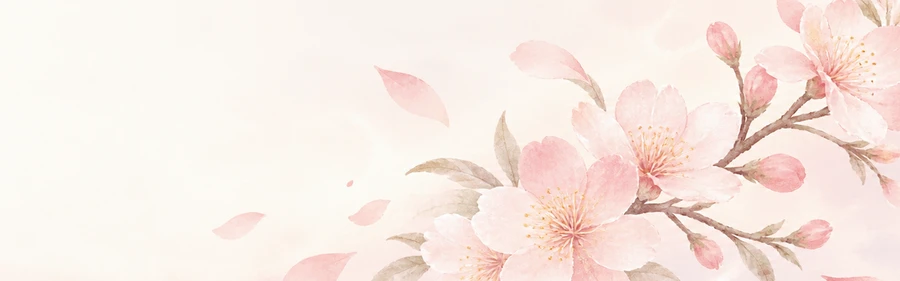
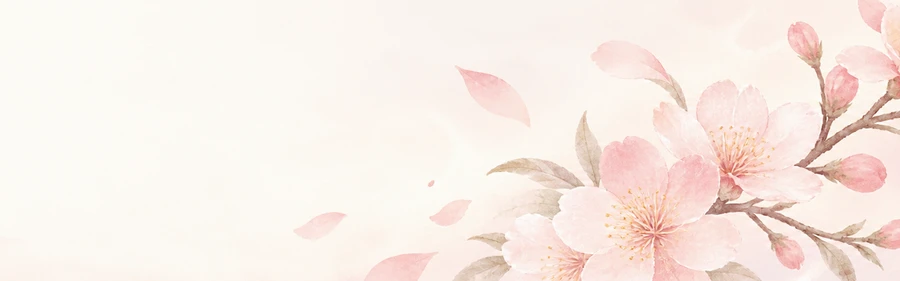
Compass mobile: unify the four cards into one cohesive system
Five changes per feedback on "same white box + different photo" feel:

1. Art recedes further and carries less visual weight: fade stays
   fully opaque through 62% (was 66%), and even the visible edge keeps
   a light residual wash so no card ever shows full-strength artwork.
   03's blossom cluster re-cropped ~100px further right so it no
   longer competes with the text; 02's sun toned down (was overshot
   too bright/saturated from the previous round).

2. The four direction icons now share one "chapter dot" language:
   fixed size, object-fit:cover forces a uniform circular crop
   (replacing each source image's own inconsistent edge/glow), with
   one shared CSS ring + halo on top. Only the inner symbol differs.

3. The 01/02/03/04 number is smaller, champagne gold, wider letter
   spacing, and now shares a vertical baseline with the icon
   (grid-row:1/3, centered) instead of sitting alone at the top-left.

4. Cards get a subtle pearl-paper surface: diagonal white-to-ivory
   gradient, inset top highlight, refined hairline border and a soft
   ambient shadow, replacing the flat rgba fill — reads as a page in a
   personal guide rather than a dashboard tile.

5. The sky quiets down starting at "从一个方向开始": a warm-ivory mist
   fades in from transparent (seamless with the compass rose above)
   to a softened, lower-contrast wash behind the four cards, then
   fades back out before the next section — so the cards read as the
[…]

diff --git a/app.html b/app.html
@@ -3898,54 +3898,81 @@
     #dpage.compass-page .cp-compass .cp-lead{display:block}
     #dpage.compass-page .cp-lead{font-size:14.5px}
     #dpage.compass-page .cp-startfrom{
-      display:flex;order:8;flex-direction:column;align-items:center;gap:6px;
+      position:relative;display:flex;order:8;flex-direction:column;align-items:center;gap:6px;
       text-align:center;margin:22px 0 16px
     }
+    /* 天空从这里开始慢慢安静下来:往下一路铺到四张卡底下,盖过中间
+       卡与卡的缝隙,让卡片区变成视觉主角,而不是天空/罗盘/卡片素材
+       全部同时抢戏。只降对比、加一层暖白雾,不是整片刷白——所以顶端
+       从完全透明开始,跟罗盘那段天空无缝接上。 */
+    #dpage.compass-page .cp-startfrom::before{
+      content:"";position:absolute;left:-8px;right:-8px;top:0;height:560px;
+      z-index:0;pointer-events:none;
+      background:linear-gradient(180deg,
+        rgba(255,251,244,0) 0%,rgba(255,251,244,.3) 25%,
+        rgba(255,251,244,.56) 52%,rgba(255,251,244,.56) 80%,
+        rgba(255,251,244,0) 100%)
+    }
+    #dpage.compass-page .cp-startfrom > *{position:relative;z-index:1}
     #dpage.compass-page .cp-startfrom b{
       font-family:var(--dp-serif);font-weight:600;font-size:16px;color:var(--dp-ink)
     }
     #dpage.compass-page .cp-startfrom span{
       font-size:13px;font-weight:300;color:rgba(34,35,58,.68)
     }
-    /* —— 四个方向的入口:圆角卡片,左边一颗上了色的圆形小图 + 编号,
-       右边一圈细框的箭头按钮,卡片右侧衬一点淡淡的实景(01/03/04 各自
-       一张,02 维持素面)。点击行为、资料完全没有动,只是外观。 */
+    /* —— 四个方向的入口:圆角卡片,左边一颗统一规格的圆形章节点 + 编号,
+       右边一圈细框的箭头按钮,卡片右侧衬一点淡淡的实景。点击行为、
+       资料完全没有动,只是外观。卡面用极淡的斜向珍珠渐层 + 内高光,
+       不是纯色网页卡片;四张卡的 height/radius/padding/编号-icon-
+       标题-说明-箭头位置完全统一,只有背景实景跟渐层不同。 */
     #dpage.compass-page .cp-ent{
       position:relative;order:10;overflow:hidden;
       display:grid;grid-template-columns:26px 46px 1fr 34px;
       grid-template-areas:"no ic zh arrow" "no ic sit arrow";
       column-gap:12px;row-gap:2px;align-items:center;
       padding:18px 16px;min-height:0;border-radius:20px;
-      background:rgba(255,253,250,.68);border:1px solid rgba(154,106,52,.14);
-      box-shadow:0 3px 16px -12px rgba(9,18,46,.22);
+      background-image:linear-gradient(135deg,rgba(255,255,255,.94),rgba(250,247,242,.88));
+      background-size:cover;
+      border:1px solid rgba(191,163,124,.13);
+      box-shadow:0 12px 30px rgba(57,44,31,.045),inset 0 1px 0 rgba(255,255,255,.9);
       margin-bottom:12px
     }
     #dpage.compass-page .cp-ent:last-of-type{margin-bottom:0}
-    /* 卡片右侧那一小片实景:铺在卡片底色之上、文字之下,靠一层同色
+    /* 卡片右侧那一小片实景:铺在珍珠底色之上、文字之下,靠一层同色
        渐层把边缘慢慢吃掉,不是硬裁一块照片贴满整张卡。四个方向各自
-       一张。渐层刻意留到 66% 才开始退,盖住整个文字栏(数字/圆图/
-       标题/说明最宽到 82% 左右),只在箭头附近才让插画完全显形,
-       这样素材才像是设计里长出来的,不是贴上去的。 */
+       一张,只承担卡片右侧一小块视觉份量(渐层最深处仍留一点底色,
+       插画不会用满饱和度)。渐层留到 62% 才开始退,盖住整个文字栏
+       (数字/圆图/标题/说明最宽到 82% 左右),这样素材才像是设计里
+       长出来的,不是贴上去的。 */
     #dpage.compass-page .cp-ent::after{
       content:"";position:absolute;inset:0;z-index:0;pointer-events:none;
       background:linear-gradient(90deg,
-        rgba(255,253,250,1) 0%,rgba(255,253,250,1) 66%,
-        rgba(255,253,250,.55) 80%,rgba(255,253,250,0) 94%)
+        rgba(252,249,243,1) 0%,rgba(252,249,243,1) 62%,
+        rgba(252,249,243,.72) 76%,rgba(252,249,243,.34) 88%,
+        rgba(252,249,243,.16) 100%)
     }
-    #dpage.compass-page .cp-ent.d1{background-image:url(assets/life/cp-mobile/card-ground.webp);background-size:cover;background-position:right center}
-    #dpage.compass-page .cp-ent.d2{background-image:url(assets/life/cp-mobile/card-move.webp);background-size:cover;background-position:right center}
-    #dpage.compass-page .cp-ent.d3{background-image:url(assets/life/cp-mobile/card-drain.webp);background-size:cover;background-position:right center}
-    #dpage.compass-page .cp-ent.d4{background-image:url(assets/life/cp-mobile/card-call.webp);background-size:cover;background-position:right center}
+    #dpage.compass-page .cp-ent.d1{background-image:url(assets/life/cp-mobile/card-ground.webp),linear-gradient(135deg,rgba(255,255,255,.94),rgba(250,247,242,.88));background-size:cover,cover;background-position:right center,center}
+    #dpage.compass-page .cp-ent.d2{background-image:url(assets/life/cp-mobile/card-move.webp),linear-gradient(135deg,rgba(255,255,255,.94),rgba(250,247,242,.88));background-size:cover,cover;background-position:right center,center}
+    #dpage.compass-page .cp-ent.d3{background-image:url(assets/life/cp-mobile/card-drain.webp),linear-gradient(135deg,rgba(255,255,255,.94),rgba(250,247,242,.88));background-size:cover,cover;background-position:right center,center}
+    #dpage.compass-page .cp-ent.d4{background-image:url(assets/life/cp-mobile/card-call.webp),linear-gradient(135deg,rgba(255,255,255,.94),rgba(250,247,242,.88));background-size:cover,cover;background-position:right center,center}
     #dpage.compass-page .cp-ent > *{position:relative;z-index:1}
+    /* 编号跟 icon 共用一条视觉基线(都用 grid-row:1/3 垂直居中),
+       编号缩小、拉开字距、香槟金,不再是孤零零贴最左边的临时标签感。 */
     #dpage.compass-page .cp-ent .no{
-      display:block;grid-area:no;align-self:start;margin-top:2px;
-      font-family:var(--dp-display);font-weight:400;font-size:13px;
-      letter-spacing:.06em;color:rgba(154,106,52,.55)
+      display:block;grid-area:no;grid-row:1/3;align-self:center;justify-self:center;
+      font-family:var(--dp-display);font-weight:500;font-size:11.5px;
+      letter-spacing:.14em;color:rgba(180,138,64,.82)
     }
     #dpage.compass-page .cp-ent .gl{display:none}
+    /* 四个方向共用同一套「章节点」:固定尺寸、固定描边、固定光晕、
+       固定透明度,只有图里的 symbol(月/日/云/星)不一样——不靠各自
+       素材自带的边框/发光,统一裁成正圆,外面再罩一圈站内自己画的
+       细描边跟柔光,四张卡才会一眼看出是同一套系统。 */
     #dpage.compass-page .cp-ent .ic{
-      display:block;grid-area:ic;grid-row:1/3;width:46px;height:46px;
-      object-fit:contain
+      display:block;grid-area:ic;grid-row:1/3;width:44px;height:44px;
+      border-radius:50%;object-fit:cover;
+      box-shadow:0 0 0 1px rgba(191,163,124,.34),0 0 0 5px rgba(255,250,240,.55),
+        0 2px 8px -2px rgba(154,106,52,.22)
     }
     #dpage.compass-page .cp-ent .arrow{
       display:flex;align-items:center;justify-content:center;
